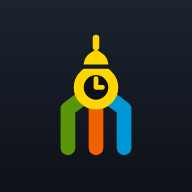
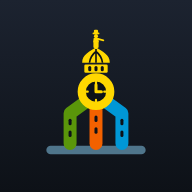
Detail the City Hall tower mark
Redraw the mark on a 64-unit grid with more of the tower's anatomy: a
roofline in the Regional Rail slate, windows in the L1/B/T shaft, hour
ticks on the clock, the arched drum, a ribbed dome, the lantern, and
William Penn with his hat and his arm held out over the city. The
favicon, touch, maskable, header/footer, and share-card copies all
carry the same drawing; PNGs regenerated with `npm run brand-assets`.

Claude-Session: https://claude.ai/code/session_01SDaXcSV7PRVGm2Rk6dKjyn

Changed region(s): [[0.2188, 0.1562, 0.7812, 0.8125]]

diff --git a/src/components/BrandMark.jsx b/src/components/BrandMark.jsx
@@ -2,35 +2,70 @@ import { useId } from 'react';
 
 // The site's mark (same drawing as public/favicon.svg): Philadelphia City
 // Hall's tower drawn in transit lines — the L1, B, and T colors rise as the
-// shaft and meet at the clock, under the dome and William Penn.
+// shaft and meet at the clock, under the drum, dome, and William Penn.
 // Decorative — the site name always sits beside it.
 export default function BrandMark({ className = 'h-8 w-8' }) {
   // The header and footer both render a mark, so the gradient id must be unique
   // (and a plain name: url(#…) can't take every character useId may emit).
   const bg = `brand-bg${useId().replace(/[^\w-]/g, '')}`;
   return (
-    <svg viewBox="0 0 32 32" className={className} aria-hidden="true" focusable="false">
+    <svg viewBox="0 0 64 64" className={className} aria-hidden="true" focusable="false">
       <defs>
         <linearGradient id={bg} x1="0" y1="0" x2="0" y2="1">
           <stop offset="0" stopColor="#1c2330" />
           <stop offset="1" stopColor="#0d1117" />
         </linearGradient>
       </defs>
-      <rect width="32" height="32" rx="7" fill={`url(#${bg})`} />
-      <g strokeWidth="3.4" strokeLinecap="round" strokeLinejoin="round" fill="none">
-        <path d="M9.5 28v-9l4-3" stroke="#5A960A" />
-        <path d="M16 28V18" stroke="#F26100" />
-        <path d="M22.5 28v-9l-4-3" stroke="#0097D6" />
+      <rect width="64" height="64" rx="14" fill={`url(#${bg})`} />
+      {/* City Hall's roofline, in the Regional Rail slate */}
+      <path d="M11 57h42" stroke="#4F758B" strokeWidth="4" strokeLinecap="round" />
+      {/* The shaft: L1, B, and T lines rising to meet at the clock */}
+      <g strokeWidth="6" strokeLinecap="round" strokeLinejoin="round" fill="none">
+        <path d="M20 54V40l7.5-5.5" stroke="#5A960A" />
+        <path d="M32 54V37" stroke="#F26100" />
+        <path d="M44 54V40l-7.5-5.5" stroke="#0097D6" />
       </g>
-      <circle cx="16" cy="14" r="4" fill="#0d1117" stroke="#FFD700" strokeWidth="2.3" />
-      <path d="M16 14v-2M16 14h1.5" stroke="#FFD700" strokeWidth="1.1" strokeLinecap="round" />
+      {/* Shaft windows */}
+      <g fill="#0d1117">
+        <rect x="19.3" y="42.5" width="1.4" height="3" rx=".7" />
+        <rect x="19.3" y="48" width="1.4" height="3" rx=".7" />
+        <rect x="31.3" y="41" width="1.4" height="3" rx=".7" />
+        <rect x="31.3" y="46.5" width="1.4" height="3" rx=".7" />
+        <rect x="43.3" y="42.5" width="1.4" height="3" rx=".7" />
+        <rect x="43.3" y="48" width="1.4" height="3" rx=".7" />
+      </g>
+      {/* Clock face */}
+      <circle cx="32" cy="30" r="6.6" fill="#0d1117" stroke="#FFD700" strokeWidth="3.8" />
+      <g stroke="#FFD700" strokeLinecap="round">
+        <path d="M32 25.1v1.1M36.9 30h-1.1M32 34.9v-1.1M27.1 30h1.1" strokeWidth="1" />
+        <path d="M32 30v-3.2M32 30h2.5" strokeWidth="1.4" />
+      </g>
+      {/* Drum with arched windows, ribbed dome, lantern */}
+      <rect x="26.6" y="17.4" width="10.8" height="3.8" rx=".6" fill="#FFD700" />
+      <g fill="#0d1117">
+        <rect x="28.4" y="18.1" width="1.4" height="2.4" rx=".7" />
+        <rect x="31.3" y="18.1" width="1.4" height="2.4" rx=".7" />
+        <rect x="34.2" y="18.1" width="1.4" height="2.4" rx=".7" />
+      </g>
       <path
-        d="M12.6 9.2C12.6 6.6 14.2 5.6 16 4.6 17.8 5.6 19.4 6.6 19.4 9.2Z"
+        d="M25.6 16.6C25.6 12.6 29.2 11.4 32 9.4 34.8 11.4 38.4 12.6 38.4 16.6Z"
         fill="#FFD700"
-        stroke="#161c26"
-        strokeWidth="1"
       />
-      <rect x="15.25" y="1.8" width="1.5" height="3.6" rx=".75" fill="#FFD700" />
+      <path
+        d="M32 10.2v6.4M29 16.6c.3-2.4 1.3-3.9 3-5.2M35 16.6c-.3-2.4-1.3-3.9-3-5.2"
+        stroke="#0d1117"
+        strokeWidth=".75"
+        fill="none"
+      />
+      <rect x="30.8" y="7" width="2.4" height="2.8" rx=".5" fill="#FFD700" />
+      {/* William Penn */}
+      <g fill="#FFD700">
+        <rect x="30.4" y="2.6" width="3.2" height=".85" rx=".42" />
+        <rect x="31.05" y="1.3" width="1.9" height="1.7" rx=".5" />
+        <circle cx="32" cy="4.3" r=".95" />
+        <path d="M30.95 5.2h2.1l.35 2h-2.8z" />
+      </g>
+      <path d="M32.9 5.6l2.5.6" stroke="#FFD700" strokeWidth=".85" strokeLinecap="round" />
     </svg>
   );
 }

diff --git a/scripts/og-template.html b/scripts/og-template.html
@@ -173,23 +173,55 @@
         <div class="copy">
           <div class="lockup">
             <!-- Same drawing as public/favicon.svg. -->
-            <svg viewBox="0 0 32 32" aria-hidden="true">
+            <svg viewBox="0 0 64 64" aria-hidden="true">
               <defs>
                 <linearGradient id="bg" x1="0" y1="0" x2="0" y2="1">
                   <stop offset="0" stop-color="#1c2330" />
                   <stop offset="1" stop-color="#0d1117" />
                 </linearGradient>
               </defs>
-              <rect width="32" height="32" rx="7" fill="url(#bg)" />
-              <g stroke-width="3.4" stroke-linecap="round" stroke-linejoin="round" fill="none">
-                <path d="M9.5 28v-9l4-3" stroke="#5A960A" />
-                <path d="M16 28V18" stroke="#F26100" />
-                <path d="M22.5 28v-9l-4-3" stroke="#0097D6" />
+              <rect width="64" height="64" rx="14" fill="url(#bg)" />
+              <!-- City Hall's roofline, in the Regional Rail slate -->
+              <path d="M11 57h42" stroke="#4F758B" stroke-width="4" stroke-linecap="round" />
+              <!-- The shaft: L1, B, and T lines rising to meet at the clock -->
+              <g stroke-width="6" stroke-linecap="round" stroke-linejoin="round" fill="none">
+                <path d="M20 54V40l7.5-5.5" stroke="#5A960A" />
+                <path d="M32 54V37" stroke="#F26100" />
+                <path d="M44 54V40l-7.5-5.5" stroke="#0097D6" />
               </g>
-              <circle cx="16" cy="14" r="4" fill="#0d1117" stroke="#FFD700" stroke-width="2.3" />
-              <path d="M16 14v-2M16 14h1.5" stroke="#FFD700" stroke-width="1.1" stroke-linecap="round" />
-              <path d="M12.6 9.2C12.6 6.6 14.2 5.6 16 4.6 17.8 5.6 19.4 6.6 19.4 9.2Z" fill="#FFD700" stroke="#161c26" stroke-width="1" />
-              <rect x="15.25" y="1.8" width="1.5" height="3.6" rx=".75" fill="#FFD700" />
+              <!-- Shaft windows -->
+              <g fill="#0d1117">
+                <rect x="19.3" y="42.5" width="1.4" height="3" rx=".7" />
+                <rect x="19.3" y="48" width="1.4" height="3" rx=".7" />
+                <rect x="31.3" y="41" width="1.4" height="3" rx=".7" />
+                <rect x="31.3" y="46.5" width="1.4" height="3" rx=".7" />
+                <rect x="43.3" y="42.5" width="1.4" height="3" rx=".7" />
+                <rect x="43.3" y="48" width="1.4" height="3" rx=".7" />
+              </g>
+              <!-- Clock face -->
+              <circle cx="32" cy="30" r="6.6" fill="#0d1117" stroke="#FFD700" stroke-width="3.8" />
+              <g stroke="#FFD700" stroke-linecap="round">
+                <path d="M32 25.1v1.1M36.9 30h-1.1M32 34.9v-1.1M27.1 30h1.1" stroke-width="1" />
+                <path d="M32 30v-3.2M32 30h2.5" stroke-width="1.4" />
+              </g>
+              <!-- Drum with arched windows, ribbed dome, lantern -->
+              <rect x="26.6" y="17.4" width="10.8" height="3.8" rx=".6" fill="#FFD700" />
+              <g fill="#0d1117">
+                <rect x="28.4" y="18.1" width="1.4" height="2.4" rx=".7" />
+                <rect x="31.3" y="18.1" width="1.4" height="2.4" rx=".7" />
+                <rect x="34.2" y="18.1" width="1.4" height="2.4" rx=".7" />
+              </g>
+              <path d="M25.6 16.6C25.6 12.6 29.2 11.4 32 9.4 34.8 11.4 38.4 12.6 38.4 16.6Z" fill="#FFD700" />
+              <path d="M32 10.2v6.4M29 16.6c.3-2.4 1.3-3.9 3-5.2M35 16.6c-.3-2.4-1.3-3.9-3-5.2" stroke="#0d1117" stroke-width=".75" fill="none" />
+              <rect x="30.8" y="7" width="2.4" height="2.8" rx=".5" fill="#FFD700" />
+              <!-- William Penn -->
+              <g fill="#FFD700">
+                <rect x="30.4" y="2.6" width="3.2" height=".85" rx=".42" />
+                <rect x="31.05" y="1.3" width="1.9" height="1.7" rx=".5" />
+                <circle cx="32" cy="4.3" r=".95" />
+                <path d="M30.95 5.2h2.1l.35 2h-2.8z" />
+              </g>
+              <path d="M32.9 5.6l2.5.6" stroke="#FFD700" stroke-width=".85" stroke-linecap="round" />
             </svg>
             <h1 class="title">SEPTA<br /><span class="product">Transit Alerts</span></h1>
           </div>
